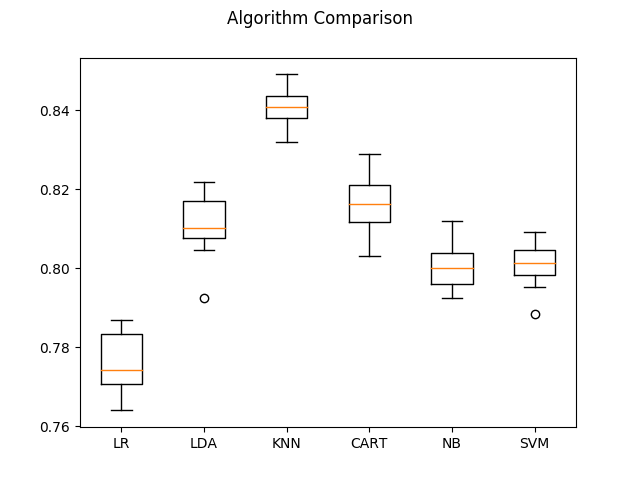
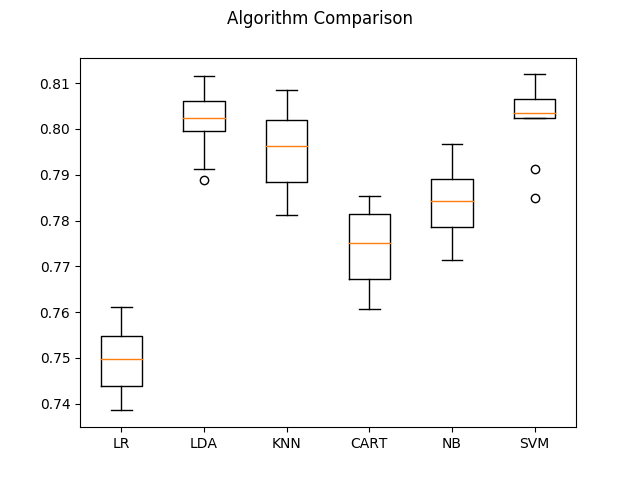
cleaning the seconed file

diff --git a/classifier.py b/classifier.py
@@ -19,15 +19,13 @@ missing_values=['?']
 potential = pd.read_csv("potential-clients.csv", index_col="ID",na_values = missing_values)
 current = pd.read_csv("current-clients.csv", index_col="ID",na_values = missing_values)
 
-# current.drop(['race','relationship','capital-gain','capital-loss'],1,inplace=True)
-
 current.dropna(inplace=True)
-# print(current.groupby('workclass').size())
+potential['workclass'].fillna('Private',inplace=True)
+potential['native-country'].fillna('United-States',inplace=True)
 
-
-# plt.show()
-
-
+potential.dropna(inplace=True)
+# print(potential.groupby('native-country').size())
+# print (potential.isnull().sum())
 
 # Feature Engineering
 
@@ -42,25 +40,25 @@ current['race_cat'] = labelencoder.fit_transform(current['race'])
 current['relationship_cat'] = labelencoder.fit_transform(current['relationship'])
 
 current=current.drop(columns = ['workclass', 'education', 'marital-status', 'occupation', 'sex',
-                                'native-country','race','relationship',])
-# current.fillna(current.mean())
+                                'native-country','race','relationship','capital-loss','capital-gain'])
 # print(current.describe())
 # print(current.columns)
-# print (current.isnull().sum())
-#
-# print(current.head(50))
+
 x = np.array(current.drop(['class'], 1))#features
 y = np.array(current['class'])#Label
 X_train, X_test, y_train, y_test = model_selection.train_test_split(x, y, test_size=0.2)
 
-
-clf = KNeighborsClassifier()
+clf = SVC()
 clf.fit(X_train,y_train)
 
 accuracy=clf.score(X_test,y_test)
-print('KNN acurecy',accuracy*100 ,'%')
+# print('SVM acurecy',accuracy*100 ,'%')
+
+pred = clf.predict(X_test)
+# print(confusion_matrix(y_test, pred))
+# print(classification_report(y_test, pred))
+
 # prepare configuration for cross validation test harness
-seed = 7
 # prepare models
 # models = []
 # models.append(('LR', LogisticRegression(max_iter=1)))
@@ -80,9 +78,7 @@ seed = 7
 #     names.append(name)
 #     msg = "%s: %f (%f)" % (name, cv_results.mean(), cv_results.std())
 #     print(msg)
-pred = clf.predict(X_test)
-print(confusion_matrix(y_test, pred))
-print(classification_report(y_test, pred))
+
 # boxplot algorithm comparison
 
 # sns.countplot(current['workclass'],label="workclasses")
@@ -99,3 +95,17 @@ print(classification_report(y_test, pred))
 # ax.set_xticklabels(names)
 # plt.savefig('Algorithm Comparison')
 # plt.show()
+
+potential['workclass_cat'] = labelencoder.fit_transform(potential['workclass'])
+potential['education_cat'] = labelencoder.fit_transform(potential['education'])
+potential['marital-status_cat'] = labelencoder.fit_transform(potential['marital-status'])
+potential['occupation_cat'] = labelencoder.fit_transform(potential['occupation'])
+potential['sex_cat'] = labelencoder.fit_transform(potential['sex'])
+potential['native-country_cat'] = labelencoder.fit_transform(potential['native-country'])
+potential['race_cat'] = labelencoder.fit_transform(potential['race'])
+potential['relationship_cat'] = labelencoder.fit_transform(potential['relationship'])
+potential=potential.drop(columns = ['workclass', 'education', 'marital-status', 'occupation', 'sex',
+                                'native-country','race','relationship','capital-loss','capital-gain'])
+
+# print(potential['workclass_cat'].head(10))
+# print(current['workclass_cat'].head(10))
